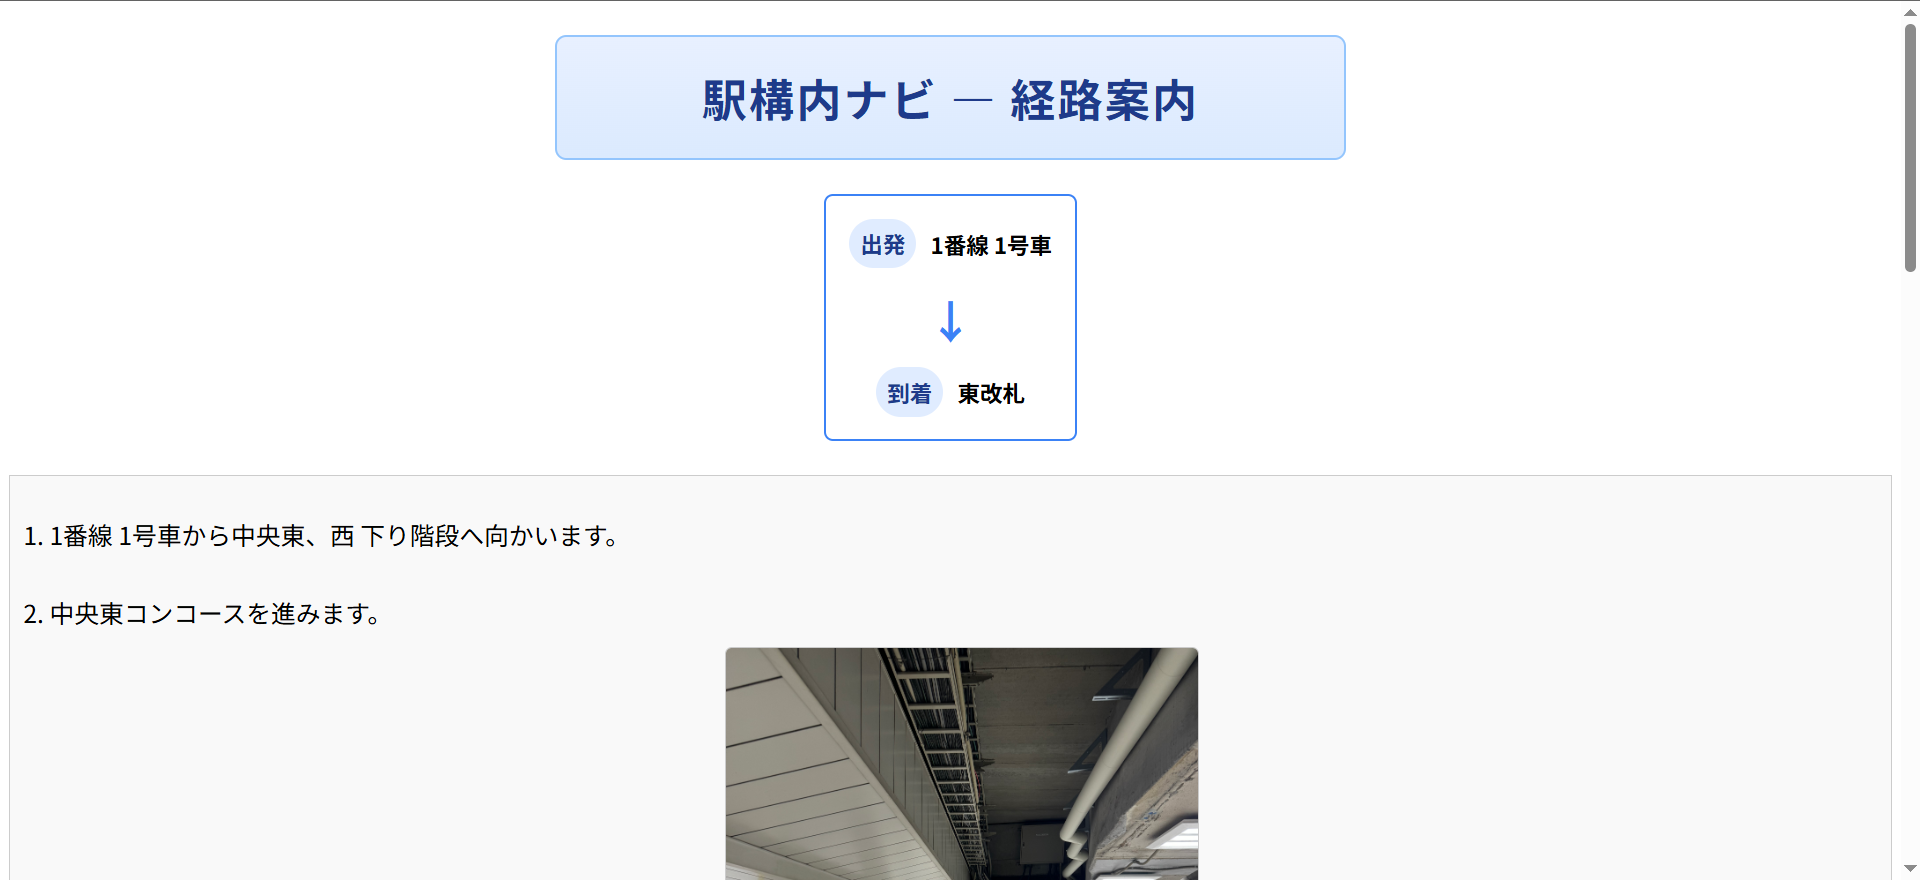
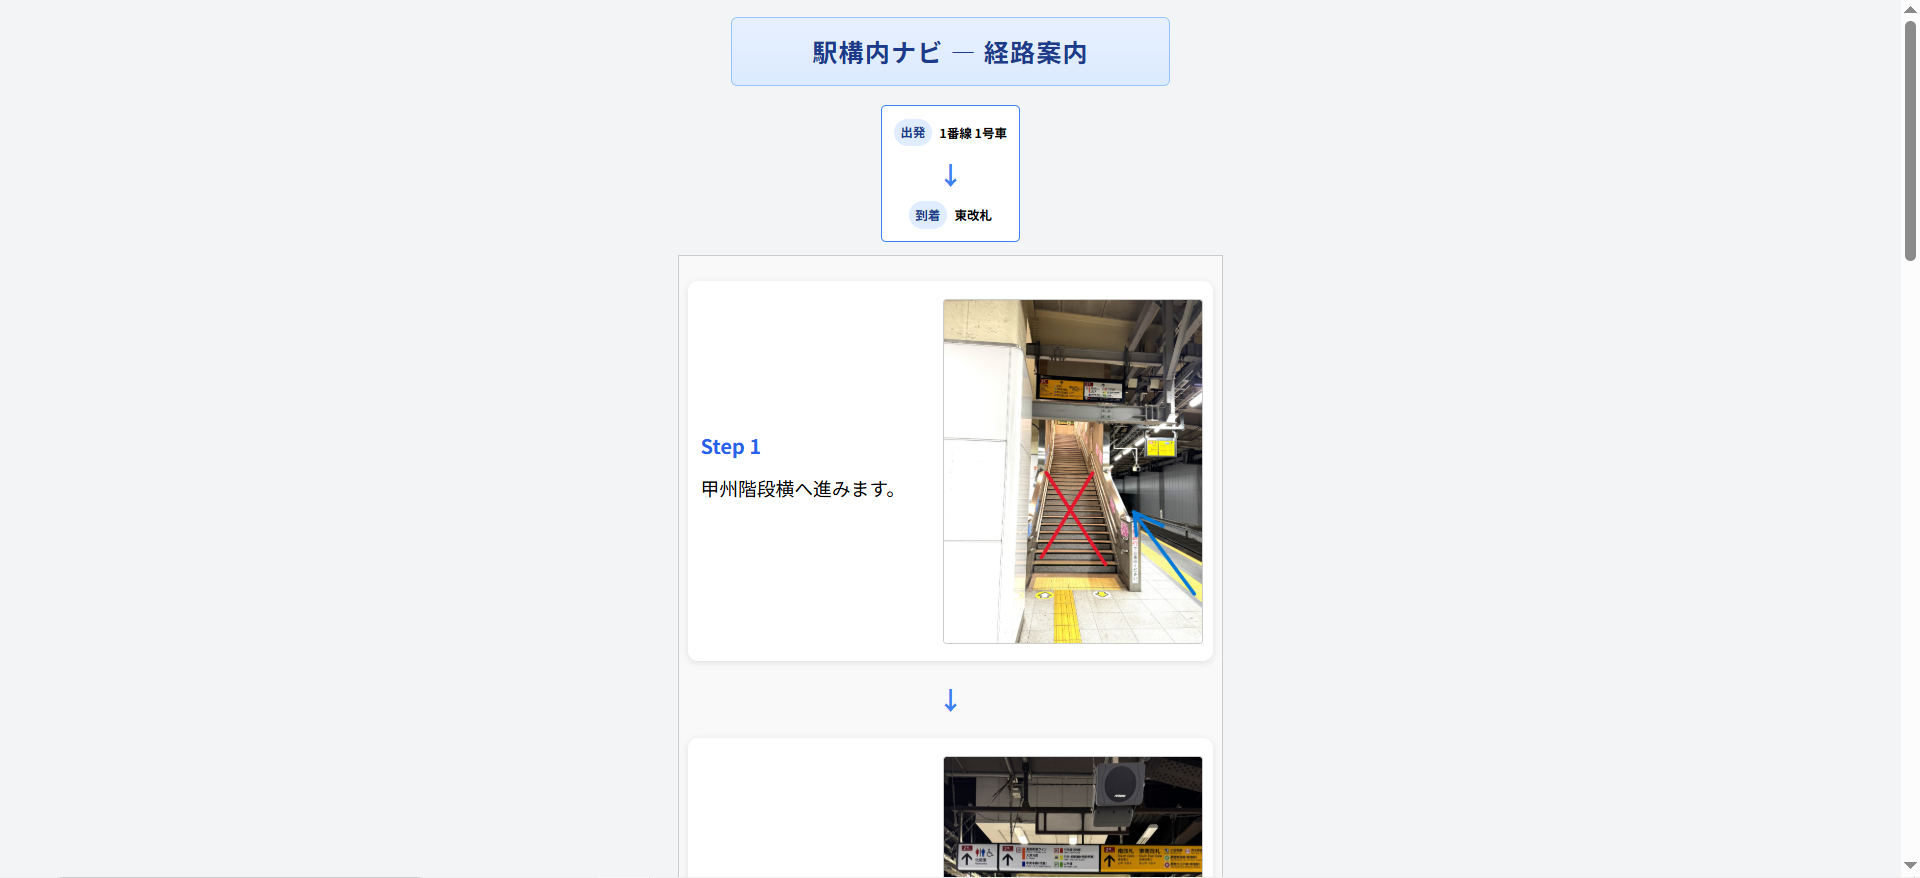
css update

diff --git a/src/main/webapp/css/style.css b/src/main/webapp/css/style.css
@@ -3,6 +3,7 @@
    共通
 ========================= */
 body {
+	background: #f3f4f6;
     font-family: sans-serif;
     line-height: 1.8;
 }
@@ -108,10 +109,41 @@ select {
 }
 
 .route-box {
+	max-width: 900px;
     border: 1px solid #ccc;
     padding: 15px;
-    margin-top: 10px;
+    margin: 0 auto;
     background-color: #f9f9f9;
+}
+
+.route-card {
+	max-width: 800px;
+    background: #ffffff;
+    border-radius: 16px;
+    padding: 20px;
+    margin: 25px auto;
+	display:flex;
+    box-shadow: 0 4px 12px rgba(0,0,0,0.1);
+    transition: 0.3s;
+}
+
+.step-left {
+    display: flex;
+    flex-direction: column;
+    justify-content: center;  
+    width: 50%;
+}
+
+.step-title {
+    font-weight: bold;
+    font-size: 32px;
+    margin-bottom: 10px;
+    color: #2563eb;
+}
+
+.step-text {
+    font-size: 30px;
+    margin-bottom: 15px;
 }
 
 .distance {
@@ -155,7 +187,7 @@ select {
 }
 
 
-ol {
+/*ol {
     padding-left: 20px;
 }
 
@@ -168,7 +200,7 @@ li {
     line-height: 1.9;    
     margin-bottom: 28px; 
 }
-
+*/
 .route-image {
     margin-top: 10px;
     text-align: center;
